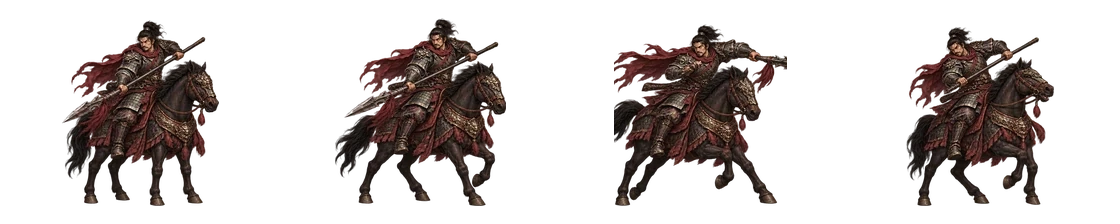
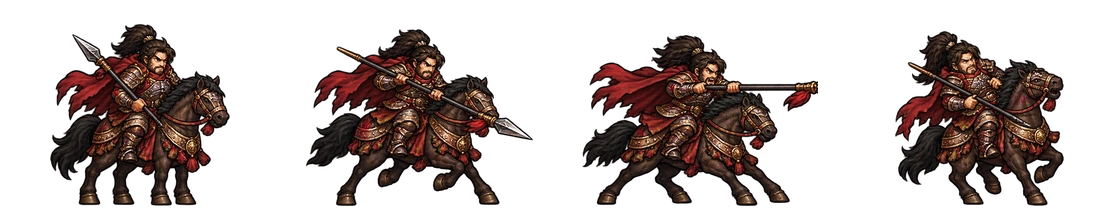
art: restyle named officers as SD troop units

diff --git a/packages/web/src/officer-models.ts b/packages/web/src/officer-models.ts
@@ -46,14 +46,14 @@ export const officerManifest:OfficerEntry[]=[
   E('gao_shou','고수',c('gao_shou','bandit'),{duel:'officers/gao_shou-duel-v1.webp'}),E('guo_huai','곽회',c('guo_huai','archer'),{duel:'officers/guo_huai-duel-v1.webp'}),
   E('dai_ling','대릉',c('dai_ling','infantry'),{duel:'officers/dai_ling-duel-v1.webp'}),E('zhang_zhao','장소',c('zhang_zhao','strategist'),{duel:'officers/zhang_zhao-duel-v1.webp'}),E('zhuge_jin','제갈근',c('zhuge_jin','strategist'),{duel:'officers/zhuge_jin-duel-v1.webp'}),
   E('zhang_ba','장패',c('zhang_ba','cavalry'),{duel:'officers/zhang_ba-duel-v1.webp'}),E('cao_xiu','조휴',c('cao_xiu','cavalry'),{duel:'officers/cao_xiu-duel-v1.webp'}),E('cao_shuang','조상',c('cao_shuang','cavalry'),{duel:'officers/cao_shuang-duel-v1.webp'}),
-  // 이름있는 장수 전용 전신 원화(Codex 2026-10-11): 한 장 원화를 대기·준비·공격·피격 네 칸으로 펼친 시트.
-  E('jia_xu','가후',{wheelSage:['jia_xu-battle-v1.webp',384,384,1]}),E('yu_jin','우금',{spearman:['yu_jin-battle-v1.webp',384,384,1]}),E('yue_jin','악진',{infantry:['yue_jin-battle-v1.webp',384,384,1]}),E('deng_ai','등애',{infantry:['deng_ai-battle-v1.webp',384,384,1]}),
-  E('zhong_hui','종회',{fengshui:['zhong_hui-battle-v1.webp',384,384,1]}),E('hao_zhao','학소',{crossbow:['hao_zhao-battle-v1.webp',384,384,1]}),E('cao_hong','조홍',{infantry:['cao_hong-battle-v1.webp',384,384,1]}),E('cao_zhang','조창',c('cao_zhang','cavalry')),
-  E('wen_ping','문빙',{spearman:['wen_ping-battle-v1.webp',384,384,1]}),E('guan_ping','관평',{infantry:['guan_ping-battle-v1.webp',384,384,1]}),E('ma_dai','마대',{infantry:['ma_dai-battle-v1.webp',384,384,1]}),E('xu_sheng','서성',{spearman:['xu_sheng-battle-v1.webp',384,384,1]}),
-  E('ding_feng','정봉',{infantry:['ding_feng-battle-v1.webp',384,384,1]}),E('yan_liang','안량',c('yan_liang','cavalry')),E('wen_chou','문추',c('wen_chou','cavalry')),E('ju_shou','저수',{strategist:['ju_shou-battle-v1.webp',384,384,1]}),
-  E('tian_feng','전풍',{strategist:['tian_feng-battle-v1.webp',384,384,1]}),E('shen_pei','심배',{strategist:['shen_pei-battle-v1.webp',384,384,1]}),E('han_xin','한신',{spearman:['han_xin-battle-v1.webp',384,384,1]}),E('zhang_liang','장량',{strategist:['zhang_liang-battle-v1.webp',384,384,1]}),
-  E('xiao_he','소하',{fengshui:['xiao_he-battle-v1.webp',384,384,1]}),E('ying_bu','영포',c('ying_bu','cavalry')),E('peng_yue','팽월',{infantry:['peng_yue-battle-v1.webp',384,384,1]}),E('fan_kuai','번쾌',c('fan_kuai','cavalry')),
-  E('chen_ping','진평',{strategist:['chen_ping-battle-v1.webp',384,384,1]}),E('fan_zeng','범증',{strategist:['fan_zeng-battle-v1.webp',384,384,1]}),E('zhongli_mo','종리매',c('zhongli_mo','cavalry')),E('ji_bu','계포',{infantry:['ji_bu-battle-v1.webp',384,384,1]}),
+  // 이름있는 장수 전용 SD(Codex 2026-10-11): 병종 실루엣과 오른쪽 기본 방향을 통일한 대기·이동·공격·피격 4칸 시트.
+  E('jia_xu','가후',c('jia_xu','wheelSage')),E('yu_jin','우금',c('yu_jin','spearman')),E('yue_jin','악진',c('yue_jin','infantry')),E('deng_ai','등애',c('deng_ai','infantry')),
+  E('zhong_hui','종회',c('zhong_hui','fengshui')),E('hao_zhao','학소',c('hao_zhao','crossbow')),E('cao_hong','조홍',c('cao_hong','infantry')),E('cao_zhang','조창',c('cao_zhang','cavalry')),
+  E('wen_ping','문빙',c('wen_ping','spearman')),E('guan_ping','관평',c('guan_ping','infantry')),E('ma_dai','마대',c('ma_dai','infantry')),E('xu_sheng','서성',c('xu_sheng','spearman')),
+  E('ding_feng','정봉',c('ding_feng','infantry')),E('yan_liang','안량',c('yan_liang','cavalry')),E('wen_chou','문추',c('wen_chou','cavalry')),E('ju_shou','저수',c('ju_shou','strategist')),
+  E('tian_feng','전풍',c('tian_feng','strategist')),E('shen_pei','심배',c('shen_pei','strategist')),E('han_xin','한신',c('han_xin','spearman')),E('zhang_liang','장량',{strategist:['zhang_liang-battle-v1.webp',384,384,1]}),
+  E('xiao_he','소하',{fengshui:['xiao_he-battle-v1.webp',384,384,1]}),E('ying_bu','영포',c('ying_bu','cavalry')),E('peng_yue','팽월',c('peng_yue','infantry')),E('fan_kuai','번쾌',c('fan_kuai','cavalry')),
+  E('chen_ping','진평',c('chen_ping','strategist')),E('fan_zeng','범증',c('fan_zeng','strategist')),E('zhongli_mo','종리매',c('zhongli_mo','cavalry')),E('ji_bu','계포',c('ji_bu','infantry')),
 ];
 
 const legacySheets=[

diff --git a/packages/web/test/officer-models.test.ts b/packages/web/test/officer-models.test.ts
@@ -14,7 +14,12 @@ const priorityBattle=[
   ['yang_ang','infantry',1120,224],['lu_fan','crossbow',1120,224],['sun_shao','crossbow',1120,224],['meng_da','infantry',1120,224],['ma_su','strategist',1120,224],['wang_ping','infantry',1120,224],
   ['gao_xiang','infantry',1120,224],['meng_yan','cavalry',1120,224],['bi_yan','cavalry',1120,224],['zhu_ran','infantry',1120,224],['zhuge_ke','strategist',1120,224],['wang_ling','infantry',1120,224],
 ] as const;
-const mountedBattle=['cao_zhang','yan_liang','wen_chou','ying_bu','fan_kuai','zhongli_mo'] as const;
+const namedBattle=[
+  ['jia_xu','wheelSage'],['yu_jin','spearman'],['yue_jin','infantry'],['deng_ai','infantry'],['zhong_hui','fengshui'],['hao_zhao','crossbow'],['cao_hong','infantry'],
+  ['cao_zhang','cavalry'],['wen_ping','spearman'],['guan_ping','infantry'],['ma_dai','infantry'],['xu_sheng','spearman'],['ding_feng','infantry'],['yan_liang','cavalry'],
+  ['wen_chou','cavalry'],['ju_shou','strategist'],['tian_feng','strategist'],['shen_pei','strategist'],['han_xin','spearman'],['ying_bu','cavalry'],['peng_yue','infantry'],
+  ['fan_kuai','cavalry'],['chen_ping','strategist'],['fan_zeng','strategist'],['zhongli_mo','cavalry'],['ji_bu','infantry'],
+] as const;
 function webpSize(file:URL){
   const b=readFileSync(file),vp8x=b.indexOf(Buffer.from('VP8X'));
   expect(vp8x).toBeGreaterThanOrEqual(0);
@@ -122,12 +127,12 @@ describe('장수별 전투 SD와 대결 모델',()=>{
     }
   });
 
-  it('조창·안량·문추·영포·번쾌·종리매는 표준 기병 시트와 말 탄 원화를 쓴다',()=>{
-    for(const id of mountedBattle){
-      const model=officerBattleSheet({id,name:id,unitClass:'cavalry'})!;
-      expect(model.action.sheet,id).toBe(`officers/${id}-battle-cavalry-v1.webp`);
+  it('이름있는 장수 26명은 병종별 표준 SD 시트를 쓴다',()=>{
+    for(const [id,unitClass] of namedBattle){
+      const model=officerBattleSheet({id,name:id,unitClass})!;
+      expect(model.action.sheet,id).toBe(`officers/${id}-battle-${unitClass}-v1.webp`);
       expect(model.action.cell,id).toEqual([280,224]);
-      expect(webpSize(new URL(`../public/officers/${id}-battle-cavalry-v1.webp`,import.meta.url)),id).toEqual([1120,224]);
+      expect(webpSize(new URL(`../public/officers/${id}-battle-${unitClass}-v1.webp`,import.meta.url)),id).toEqual([1120,224]);
     }
   });
 
